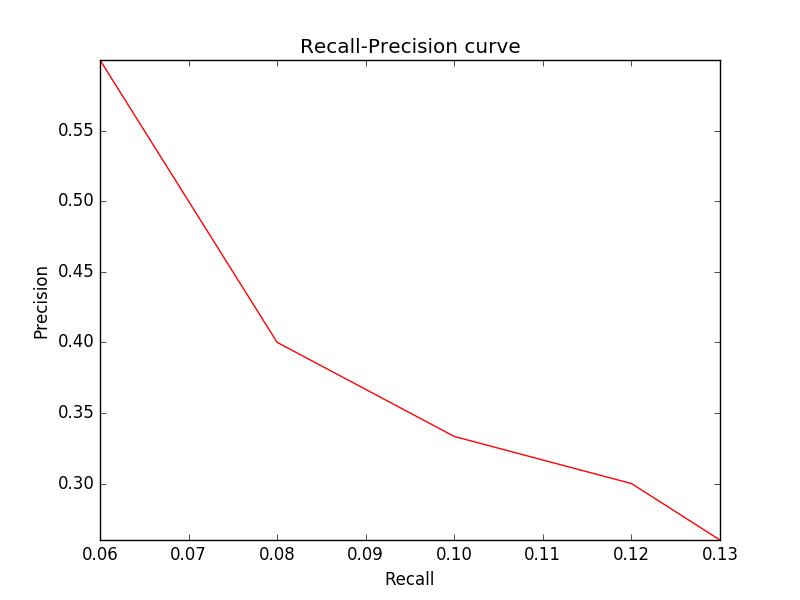
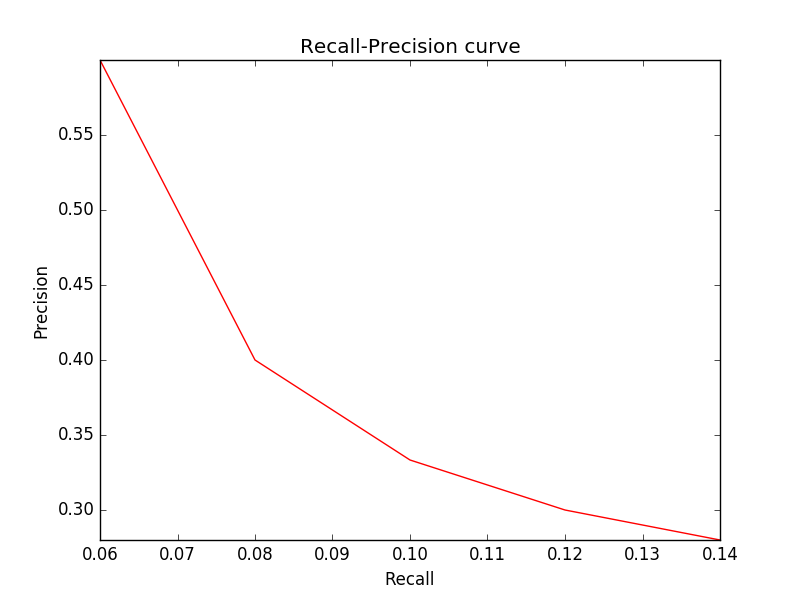
report

diff --git a/report/report-2.md b/report/report-2.md
@@ -5,8 +5,9 @@
 
 ## Task 2.2. Ranked Multiword Retrieval
 - For this task, I introduced the term _wq(t)_ to weight the different terms in the query. Assume we have terms _t1_ and _t2_ appearing in document _d_. Then, the score of _d_ is computed as: _wq(t1)*wd(t1) + wq(t2)*wd(t2)_
-- This should be normalized, at the end, by the length of the document _d_, number of words.
+- This should be normalized, at the end, by the length of the document _d_, number of words. 
 - Another approach is to normalize it using the euclidean distance: _sqrt(sum_k{wd(tk)^2})_, for all terms _tk_ in _d_. I did not use the cosine similarity, seemed a world to me.
+- Furthermore, log(tf+1) could be interesting to use. If a document contains a word _m_ times and another document contains that word _2m_ times, the later is not necessarily two times as much relevant as the first one!
 
 
 ## Task 2.3: What is a good search result?
@@ -15,7 +16,20 @@
 - Image _precrecplot.png_ shows the precision-recall curve. We see that >
 	* From recall = |relevant intersection returned|/|relevant| we observe that |relevant| remains constant, while the term |relevant intersection returned| can only increase as the number of considered documents increases.
 	* From precision = |relevant intersection returned|/|returned| we see that this can indeed decrease. For instance, As we increase the number of considered documents it is likely that less 'relevant' documents appear.
+- Below you can find the corresponding picture
 
+![Precision-Recall curve](https://github.com/lucasrodes/lab_ir/blob/master/report/precrecplot.png)
+
+
+## Task 2.4: Computing PageRank with Power Iteration
+- Done perfectly! Had to tune epsilon to an optimum number tho.
+- The highest ranked document is Davis, which is the homepage and makes sense since various documents might link to it. The order of ranked documents is: 
+
+_Davis, Photo_Requests, UC_Davis, Seed/Definition, departed_businesses_
+
+which seem to be general pages of the wiki. On the contrary, as we go down we find more specific documents such as _Picnic_Day_ or _Music_Scene_. Nonetheless we are only considering files within the top 30 rank, and hence all files are still generic.
+
+For detailed results report, check file _results_pagerank.txt_
 ----
 ## Task 1.4: Phrase queries
 - Results obtained match the ones in the tutorial
